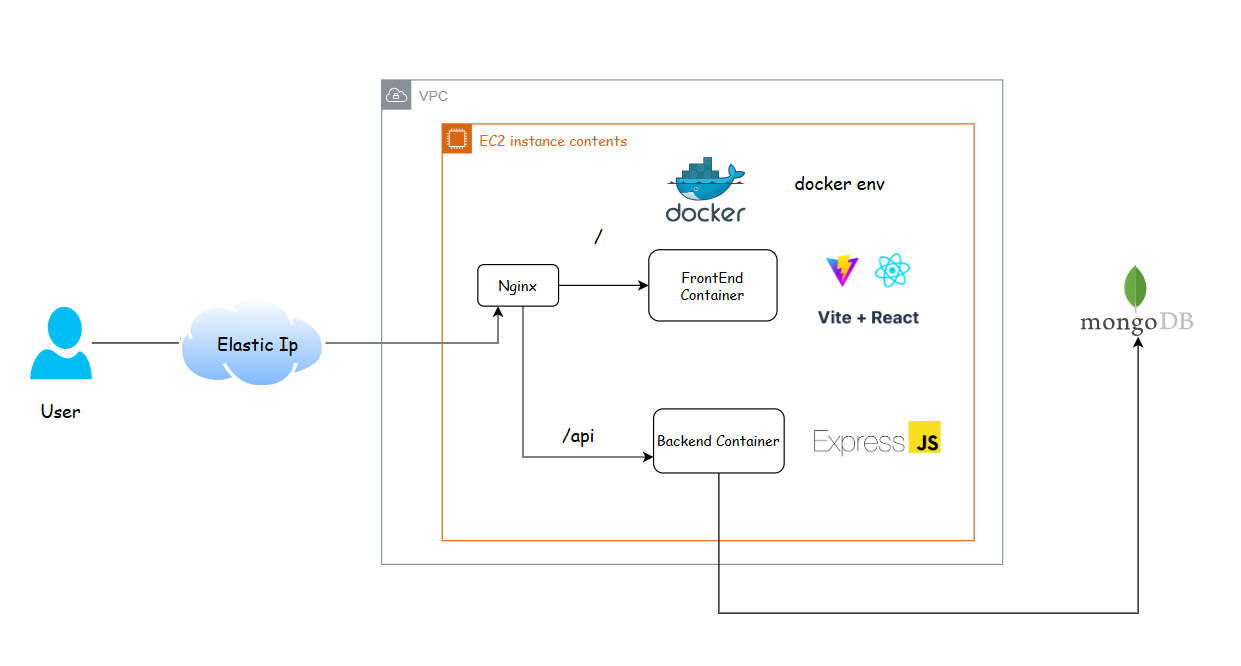
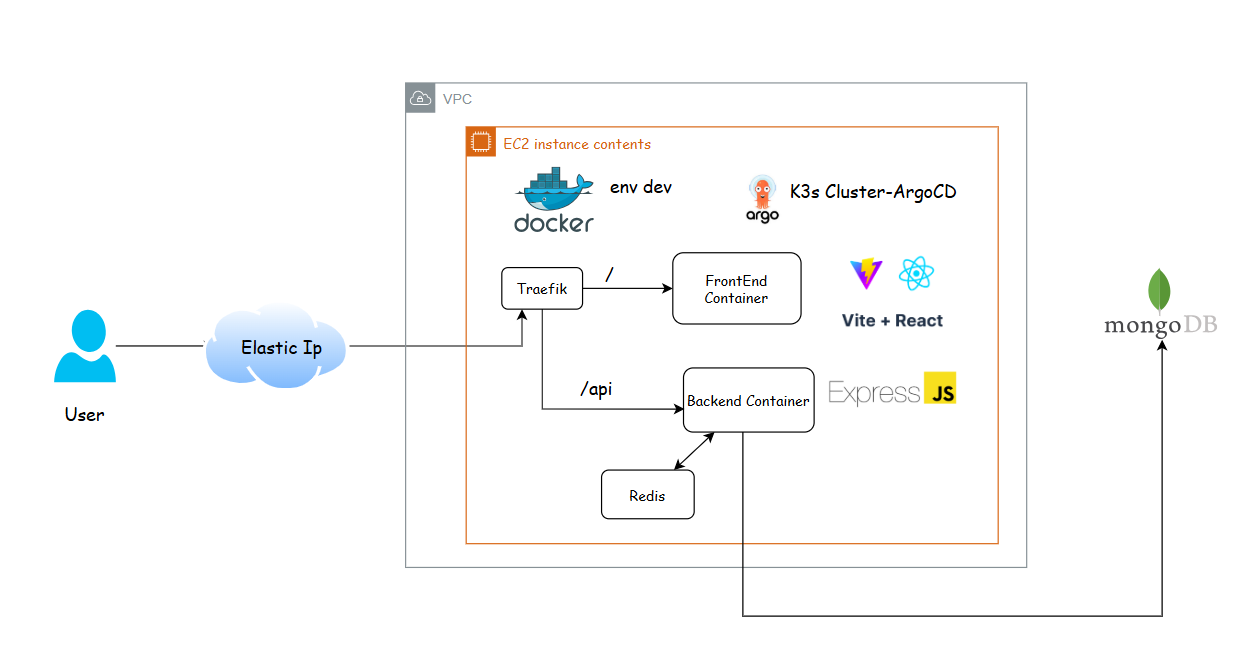
update Readme.md

diff --git a/README.md b/README.md
@@ -1,11 +1,12 @@
 # 👟 ProShop — Full-Stack E-Commerce on AWS EC2
 
-> Deployed full-stack e-commerce application on AWS EC2 (ARM64 Graviton), implemented CI/CD with GitHub Actions (Buildx multi-arch), Dockerized services, configured Nginx reverse proxy, and automated production deployment using self-hosted runners.
+> Deployed full-stack e-commerce application on AWS EC2 (ARM64 Graviton), implemented CI/CD with GitHub Actions (Buildx multi-arch), Dockerized services, configured Nginx reverse proxy, and automated GitOps deployment using ArgoCD on k3s.
 
 ---
 
 ## 📸 Application Screenshots
 
+> _Place your screenshots in `docs/screenshots/`_
 
 | Home Page | Product Detail |
 |-----------|---------------|
@@ -15,15 +16,17 @@
 |------|---------|
 | ![Cart](./docs/screenshots/cart.png) | ![Profile](./docs/screenshots/profile.png) |
 
+| Checkout | Order |
+|----------|-------|
+| ![Checkout](./docs/screenshots/checkout.png) | ![Order](./docs/screenshots/order.png) |
+
 ---
 
 ## 🏗 Architecture Diagram
 
+> _Place your diagram at `docs/architecture.png`_
 
-
-![EndUser](./docs//screenshots/application.png)
-
-![CI_CD](./docs//screenshots/CI_CD.png)
+![Architecture](./docs/architecture.png)
 
 ---
 
@@ -33,96 +36,53 @@
 |-------|-----------|
 | Frontend | React 18, Vite, MUI v5, Redux Toolkit |
 | Backend | Node.js, Express, MongoDB, Mongoose |
-| Auth | JWT (JSON Web Tokens) |
+| Auth | JWT |
 | Containerization | Docker, Docker Compose |
 | Reverse Proxy | Nginx |
-| CI/CD | GitHub Actions, Docker Buildx |
+| CI/CD | GitHub Actions, Docker Buildx (ARM64) |
+| GitOps | ArgoCD on k3s |
 | Cloud | AWS EC2 (ARM64 Graviton) |
 | Registry | Docker Hub |
 
 ---
 
-## ⚙ CI/CD Pipeline
+## ⚙ Environments
 
-```
-Push to main
-     │
-     ▼
-GitHub Actions (ubuntu-latest)
-     │
-     ├── Install dependencies
-     ├── Set up QEMU + Docker Buildx
-     ├── Build backend image (linux/arm64)
-     ├── Build frontend image (linux/arm64)
-     └── Push to Docker Hub
-          │
-          ▼
-     Self-Hosted Runner (EC2)
-          │
-          ├── Pull latest images
-          ├── docker compose up -d
-          └── Prune old images
-```
-
----
-
-## 🚀 Getting Started
-
-### Prerequisites
-- Node.js v20+
-- Docker & Docker Compose
-- MongoDB Atlas account
-
-### Local Development
-
+### 🧪 Development — Docker Compose
 ```bash
-# Clone the repo
-git clone https://github.com/chywiz/e-commerce-mern-stack.git
-cd e-commerce-mern-stack
-
-# Backend
-cd backend
-npm install
-npm run dev
-
-# Frontend (new terminal)
-cd frontend
-npm install
-npm run dev
-```
-
-### Docker (Production)
-
-```bash
-# Build and run all services
+# Run all services locally
 docker compose up --build
 
 # Seed the database
 docker exec -it <backend-container> node seeder.js
 ```
 
----
+| Service | URL |
+|---------|-----|
+| Frontend | http://localhost:3000 |
+| Backend | http://localhost:5000 |
+| MongoDB | localhost:27017 |
 
-## 🔑 Environment Variables
+### 🚀 Production — k3s + ArgoCD
 
-Create a `.env` file in the `backend/` folder:
-
-```env
-NODE_ENV=production
-PORT=5000
-MONGO_URI=your_mongodb_connection_string
-JWT_SECRET=your_jwt_secret
-FRONTEND_URL=http://your-ec2-ip
 ```
-
----
-
-## 🐳 Docker Images
-
-| Image | Docker Hub |
-|-------|-----------|
-| Backend | `chywiz/e-app-backend:latest` |
-| Frontend | `chywiz/e-app-frontend:latest` |
+Push to main (backend/** or frontend/**)
+        │
+        ▼
+GitHub Actions
+        ├── Build backend  → chywiz/e-app-backend:<sha>   (linux/arm64)
+        ├── Build frontend → chywiz/e-app-frontend:<sha>  (linux/arm64)
+        ├── Push images to Docker Hub
+        ├── Update k8s/backend/backend-deployment.yaml
+        ├── Update k8s/frontend/frontend-deployment.yaml
+        └── git commit [skip ci] & push
+                 │
+                 ▼
+        ArgoCD (k3s on EC2)
+                 ├── Detects manifest change
+                 ├── Pulls new image:<sha>
+                 └── Rolls out new deployment
+```
 
 ---
 
@@ -140,29 +100,73 @@ e-commerce-mern-stack/
 │   ├── Dockerfile
 │   └── server.js
 ├── frontend/
-│   ├── public/images/
+│   ├── public/images/       ← product images
 │   ├── src/
 │   │   ├── actions/
 │   │   ├── components/
 │   │   ├── constants/
 │   │   ├── reducers/
 │   │   └── screens/
-│   ├── Dockerfile
-│   └── nginx.conf
+│   ├── nginx.conf
+│   └── Dockerfile
+├── k8s/
+│   ├── backend/
+│   │   ├── backend-deployment.yaml   ← image tag auto-updated by CI
+│   │   └── backend-service.yaml
+│   ├── frontend/
+│   │   ├── frontend-deployment.yaml  ← image tag auto-updated by CI
+│   │   └── frontend-service.yaml
+│   └── ingress.yaml
 ├── .github/
 │   └── workflows/
 │       └── deploy.yml
-└── docker-compose.yml
+├── docker-compose.yml        ← dev only
+└── README.md
 ```
 
 ---
 
-## 🔧 GitHub Actions Secrets Required
+## 🔑 Environment Variables
+
+Create `.env` in `backend/`:
+
+```env
+NODE_ENV=production
+PORT=5000
+MONGO_URI=your_mongodb_connection_string
+JWT_SECRET=your_jwt_secret
+FRONTEND_URL=http://your-ec2-ip
+```
+
+For k3s, apply the secret manually on EC2:
+```bash
+kubectl apply -f k8s/backend/backend-secret.yaml
+```
+
+---
+
+## 🔧 GitHub Secrets Required
 
 | Secret | Description |
 |--------|-------------|
 | `DOCKER_USERNAME` | Docker Hub username |
 | `DOCKER_PASSWORD` | Docker Hub password |
+
+---
+
+## 🛍 Features
+
+- ✅ Product listing with search & pagination
+- ✅ Product detail with reviews & ratings
+- ✅ Shopping cart with quantity management
+- ✅ User authentication (JWT)
+- ✅ Checkout flow (Shipping → Payment → Order)
+- ✅ Demo payment simulation
+- ✅ Admin panel (Products, Users, Orders)
+- ✅ Responsive glassmorphism UI
+- ✅ Dockerized with Nginx reverse proxy
+- ✅ CI/CD with GitHub Actions (ARM64 Buildx)
+- ✅ GitOps with ArgoCD on k3s
 
 ---
 
